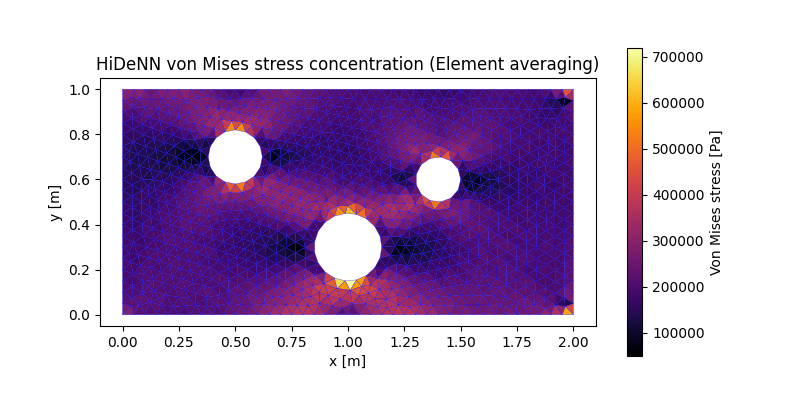
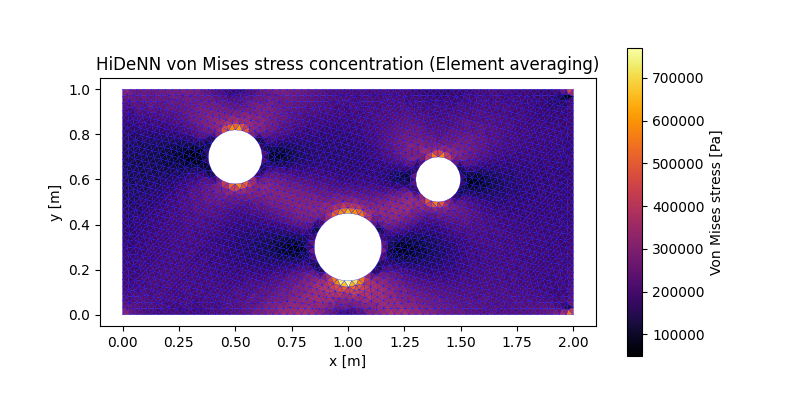
Add c-HiDeNN

diff --git a/test.py b/test.py
@@ -1,0 +1,95 @@
+import torch
+import numpy as np
+
+from src.c_model import PiecewiseLinearShapeNN2D
+from src.c_loss import EnergyLoss2D
+from src.c_mesh import generate_mesh_gmsh, mesh_to_patch, plot_mesh, plot_mesh_with_patches
+from src.c_optimization import TestOptimizer
+from src.c_plots import plot_displacement_magnitude, plot_von_mises, plot_von_mises_tricontourfd
+from src.utils import test_gradients
+
+
+device = torch.device("cuda" if torch.cuda.is_available() else "cpu")
+dtype = torch.float32
+#torch.backends.cuda.matmul.allow_tf32 = False
+
+# Define rectangle and holes
+length, height = 2.0, 1.0
+holes = [(0.5,0.7,0.12), (1.0,0.3,0.15), (1.4,0.6,0.1)]
+#holes = [(0.5,0.5,0.2)]
+boundaries = {
+    'up': 0,    # no conditions
+    'down': 0,  # no conditions
+    'right': 2, # Neumann boundaries
+    'left': 1   # Drichlet boundaries
+}
+lc = 0.032
+
+node_coords, connectivity, geom_boundary_mask, bc_mask, mn_mask, neumann_edges, dimless_scale = generate_mesh_gmsh(length, height, holes, boundaries, lc, dtype)
+patch = mesh_to_patch(connectivity, s=2)
+
+print("-----"*10)
+print("Nodes:", node_coords.shape)
+print("Connectivity:", connectivity.shape)
+print("-----"*5)
+print("Geometric boundary nodes:", geom_boundary_mask.sum().item())
+print("Dirichlet BC nodes:", bc_mask.sum().item())
+print("-----"*5)
+print("Neumann MN nodes:", mn_mask.sum().item())
+print("Neumann edges:", neumann_edges.shape)
+print("-----"*5)
+print("Patch tensor shape:", patch.shape)
+print("-----"*10)
+
+#plot_mesh_with_patches(node_coords, connectivity, geom_boundary_mask, bc_mask, mn_mask, neumann_edges, patch)
+
+# --- Define Model and Loss function --- 
+E = 10e9
+nu = 0.3
+F_total = 100e3
+
+#characteristic scales
+L0 = dimless_scale
+T0 = (F_total / L0)            
+U0 = (T0 * L0) / E 
+
+# Model
+model = PiecewiseLinearShapeNN2D(
+    node_coords/L0, # model coordinates should be dimensionless
+    connectivity, patch, 
+    boundary_mask=geom_boundary_mask, 
+    dirichlet_mask = bc_mask,
+    u_fixed=0.0,
+    neumann_edges=neumann_edges,
+).to(device)
+
+# Loss function
+loss_fn = EnergyLoss2D(E=E, nu=nu, length=length, height=height, F_total=F_total,
+                       gauss_order=37, gauss_order_1d=7, 
+                       device=device, dtype=dtype)
+
+optimizer = TestOptimizer(model, loss_fn)
+
+stages = [    
+    #{"optimizer": "SGD", "lr": 1e-5, "epochs": 500},
+    #{"optimizer": "Adam", "lr": 3e-1, "epochs": 500},
+    #{"optimizer": "AdamW", "lr": 3e-1, "epochs": 500},
+    #{"optimizer": "RMSprop", "lr": 3e-2, "epochs": 500},
+    {"optimizer": "LBFGS", "epochs": 200},
+] 
+
+optimizer.optimize(stages)
+print("Training finished.\n")
+
+test_gradients(model, loss_fn)
+
+u_vals = model.values.cpu().detach().numpy()       # [Nnodes, 2]
+print("Nodal values u", u_vals.shape)
+print("Nodal values u_x:", np.mean(u_vals[:,0]), np.min(u_vals[:,0]), np.max(u_vals[:,0]))
+print("Nodal values u_y:", np.mean(u_vals[:,1]), np.min(u_vals[:,1]), np.max(u_vals[:,1]))
+
+optimizer.plot_loss()
+#plot_mesh(node_coords, connectivity, geom_boundary_mask, bc_mask, mn_mask, neumann_edges)
+plot_displacement_magnitude(model, L0=L0, U0=U0)
+plot_von_mises(model, E=E, nu=nu, L0=L0, U0=U0)
+plot_von_mises_tricontourfd(model, E=E, nu=nu, L0=L0, U0=U0)
